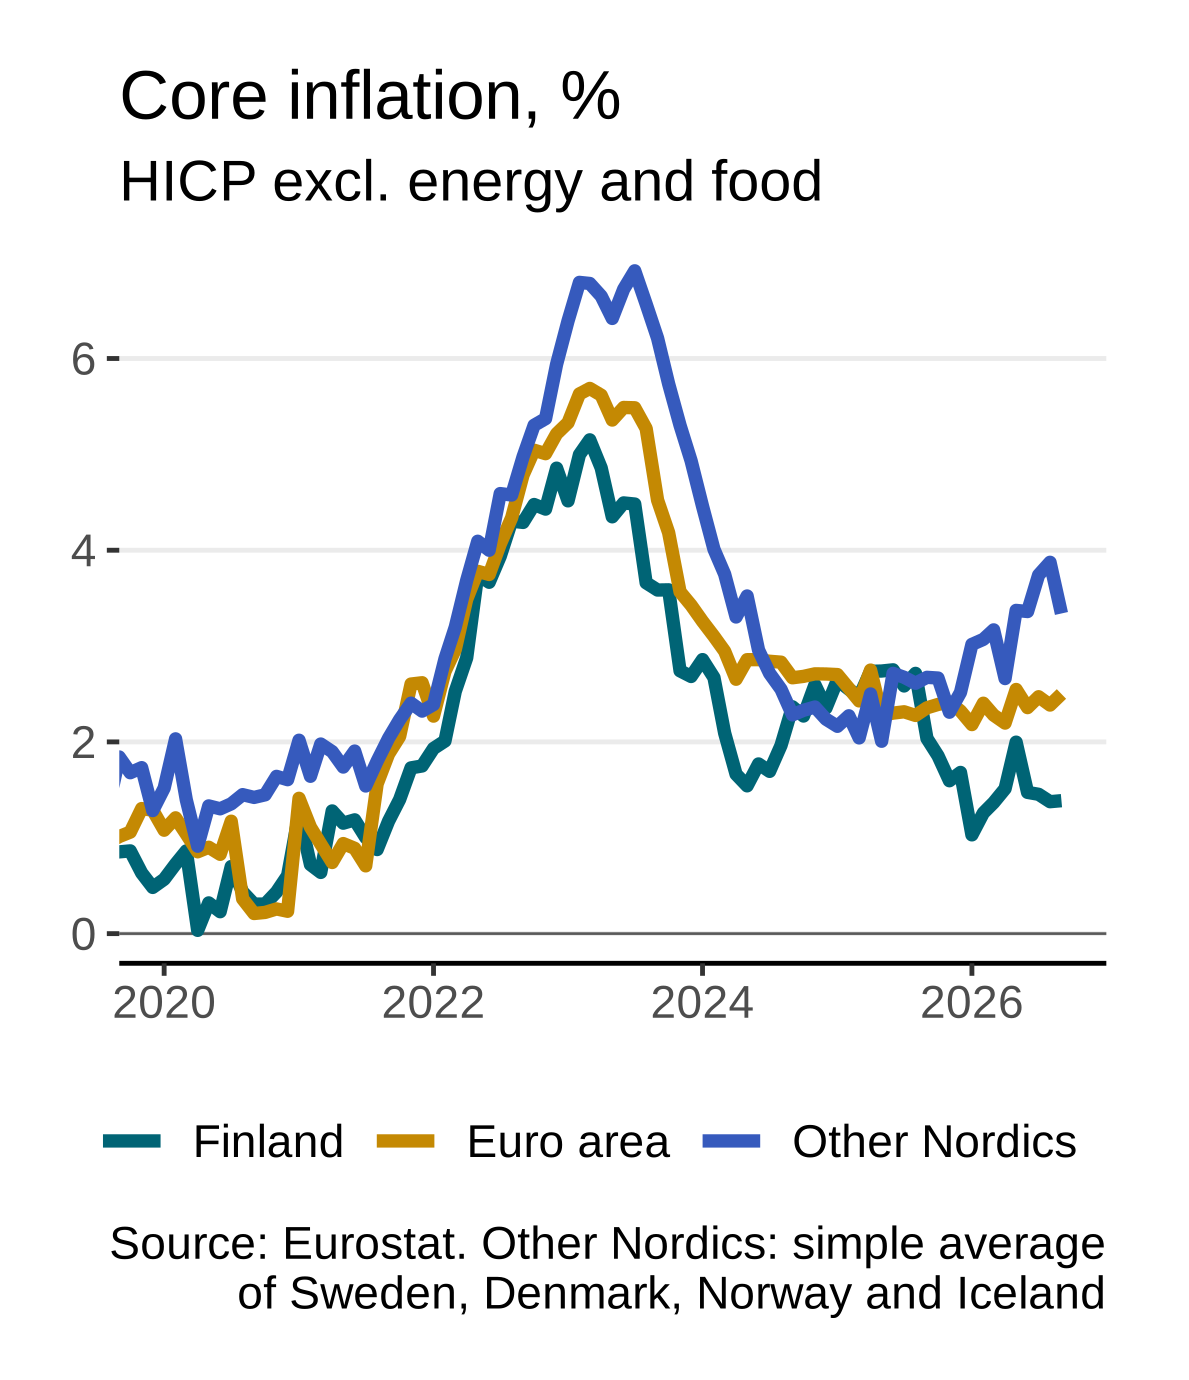
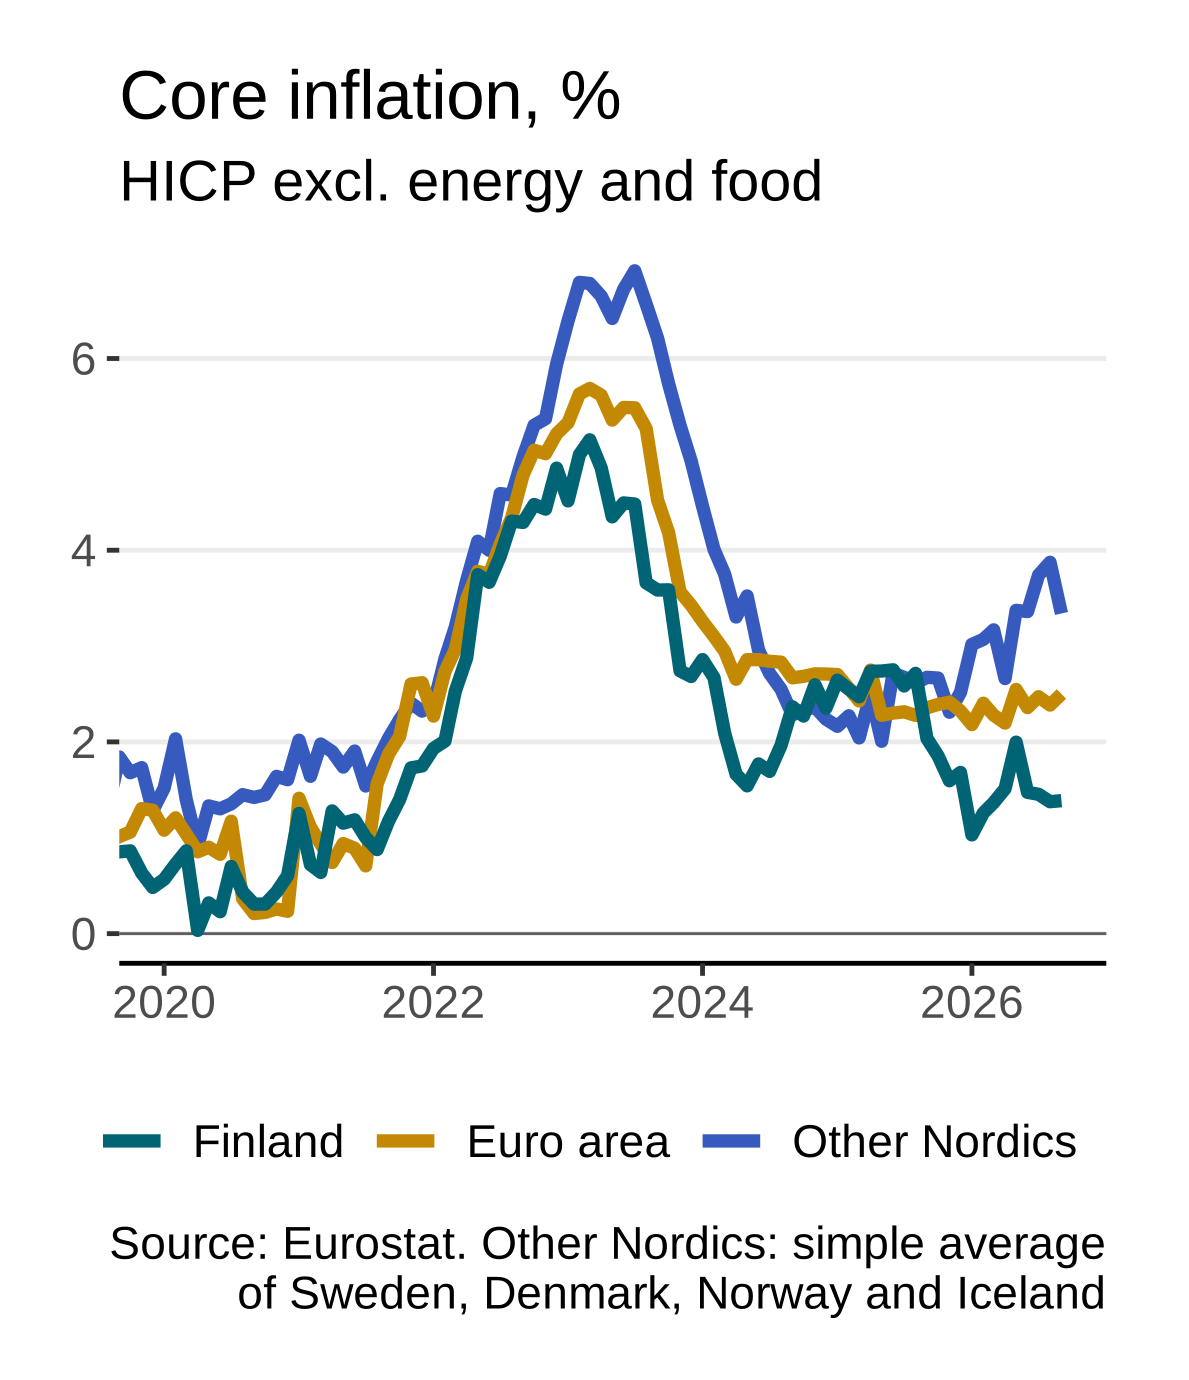
Esityskuvioissa selitteen ensimmäinen sarja päällimmäisenä
visu_restyle() saa top_first-argumentin, joka kääntää viivakuvion
piirtojärjestyksen erillisellä group-estetiikalla. Värit ja selitteen
järjestys eivät muutu. Pinottuihin pylväisiin, alueisiin ja
päällysviivaan muutos ei vaikuta. visu_chart_png() käyttää sitä
oletuksena; sivuston kuviot eivät muutu.

Claude-Session: https://claude.ai/code/session_012ftLSFWSVJtSiLFrthZi8q

diff --git a/.claude/skills/esitys/SKILL.md b/.claude/skills/esitys/SKILL.md
@@ -82,7 +82,12 @@ päivittyy itsestään.
   tekstit ovat 1.15-kertaisia ja viivat VM-määrittelyn paksuisia (1.5).
   Sivustolla viiva on ohuempi (0.8), eikä sitä muuteta. `visu_chart_png()`
   tekee tämän itse; omassa kuviossa käytä samoja asetuksia:
-  `visu_restyle(p, legend = "auto", scale = 1.15, linewidth = 1.5, height = 4.49)`.
+  `visu_restyle(p, legend = "auto", scale = 1.15, linewidth = 1.5, height = 4.49, top_first = TRUE)`.
+- **Selitteen ensimmäinen sarja on päällimmäisenä.** Viivakuviossa sarjat
+  piirretään käänteisessä järjestyksessä, joten tärkein sarja (yleensä Suomi,
+  selitteessä ensimmäisenä) ei jää muiden alle. Värit ja selitteen järjestys
+  eivät muutu. Pinottuihin pylväisiin ja alueisiin tämä ei vaikuta.
+  `visu_chart_png()` tekee tämän itse; sivustolla järjestys on toisin päin.
 - **Pitkät tekstit sovitetaan** kuvion mittoihin, kun `visu_restyle()` saa
   korkeuden (`visu_chart_png()` antaa sen aina): liian pitkä otsikko jaetaan
   riveille, ja lähde, joka leikkautuisi oikean reunan selitteen takia,
